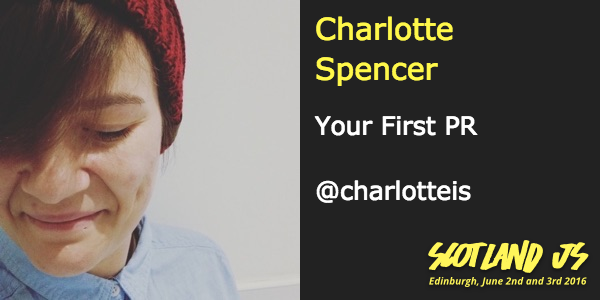
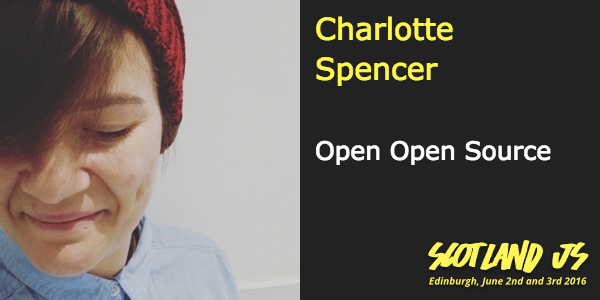
adding speaker titles to site

Changed region(s): [[0.51, 0.39, 0.93, 0.54], [0.51, 0.6, 0.81, 0.69]]

diff --git a/_includes/speaker.html b/_includes/speaker.html
@@ -8,8 +8,9 @@
 <a href="#{{speaker.individual_page}}" data-toggle="modal" class="speaker col-md-4 col-sm-6"><img src={{ speaker.image | asset_path }} srcset={{ speaker.image2 | asset_path }} alt="{{speaker.name}}" width="150" height="150"/>
   <div class="info">
     <h3>
-      <span aria-hidden="true">{{speaker.name}}</span>
-      <small>{{speaker.twitter}}</small>
+      <span aria-hidden="true">{{speaker.name}}</span><br/>
+      <small>{{speaker.twitter}}</small><br/>
+      <span class="talk-title">{{speaker.title}}</span class="talk-title">
     </h3>
     <p></p>
   </div>
